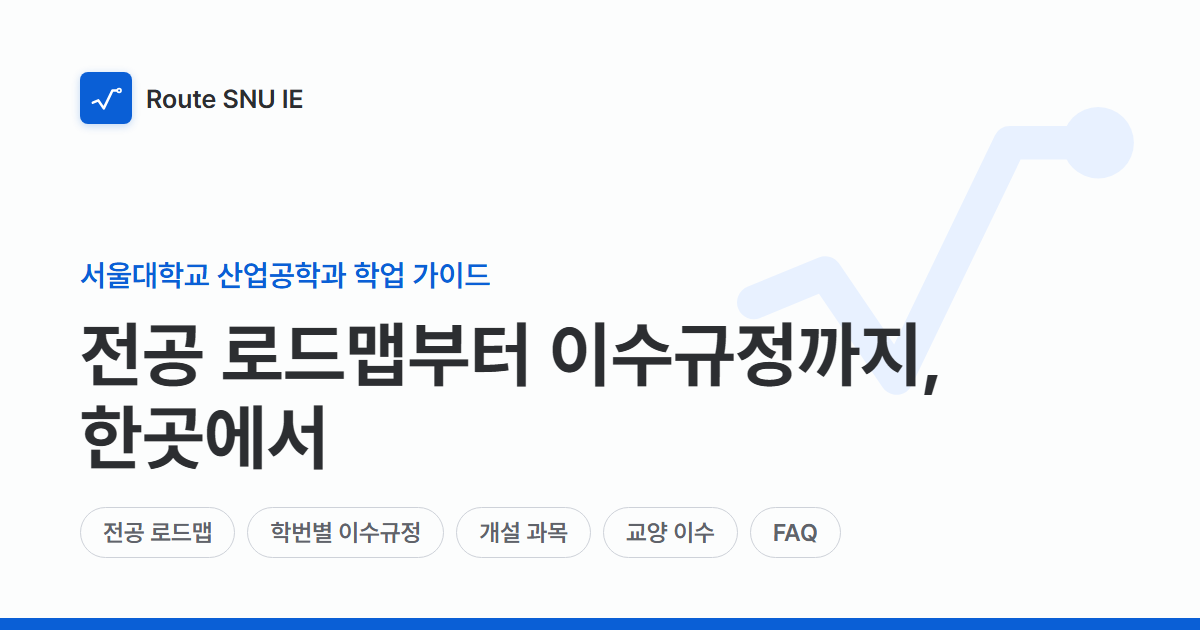
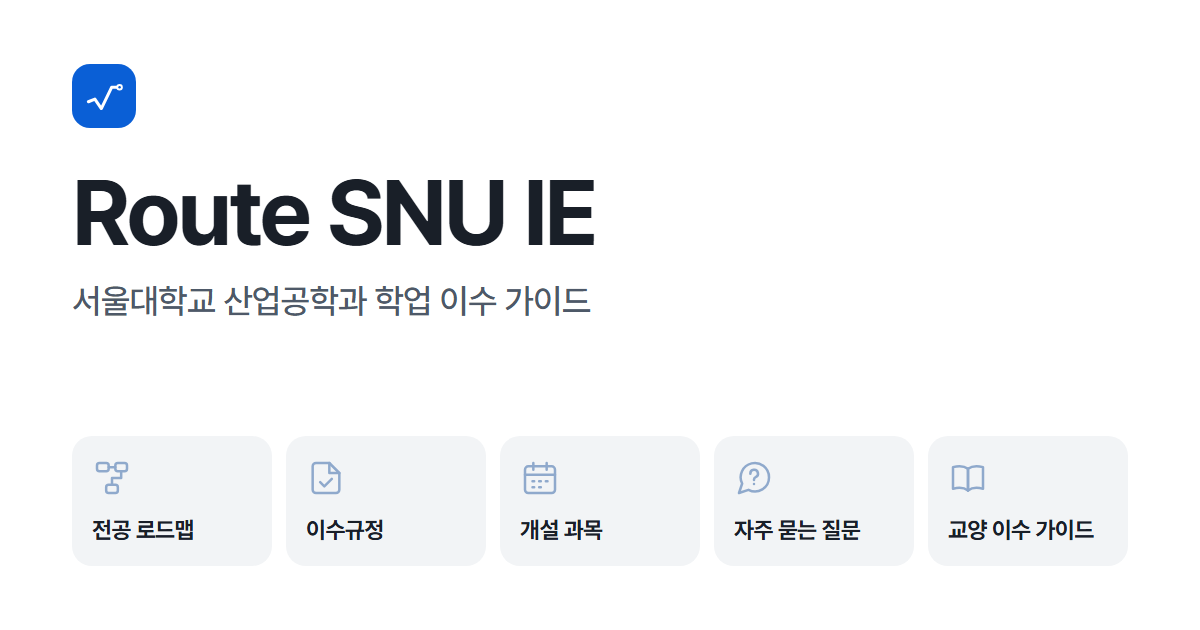
Redraw the share thumbnail to match the v7 home
The old og-image still showed the retired slogan headline. The new one is
rendered from .design-foundations/og-image.html at 1200x630.

diff --git a/.design-foundations/og-image.html b/.design-foundations/og-image.html
@@ -1,0 +1,34 @@
+<!DOCTYPE html>
+<!-- img/og-image.png 원본 (1200×630). 홈 화면을 바꾸면 이 파일도 맞춰 고친 뒤 1200×630으로 캡처합니다. -->
+<html lang="ko">
+<head>
+<meta charset="UTF-8">
+<link rel="stylesheet" href="https://cdn.jsdelivr.net/gh/orioncactus/pretendard@v1.3.9/dist/web/variable/pretendardvariable.min.css">
+<style>
+  * { box-sizing: border-box; margin: 0; }
+  html, body { width: 1200px; height: 630px; overflow: hidden; background: #fff; }
+  body { font-family: "Pretendard Variable", Pretendard, sans-serif; color: #191f28; word-break: keep-all;
+         padding: 64px 72px; display: flex; flex-direction: column; }
+  .brand { display: flex; align-items: center; gap: 12px; font-size: 24px; font-weight: 700; letter-spacing: -.02em; }
+  .mark { width: 64px; height: 64px; border-radius: 18px; background: #0a5fd6; color: #fff; display: grid; place-items: center; }
+  h1 { margin-top: 36px; font-size: 92px; font-weight: 700; letter-spacing: -.035em; line-height: 1.05; }
+  .sub { margin-top: 20px; font-size: 34px; font-weight: 500; color: #4e5968; letter-spacing: -.02em; }
+  .cards { margin-top: auto; display: grid; grid-template-columns: repeat(5, 1fr); gap: 14px; }
+  .card { background: #f2f4f6; border-radius: 20px; padding: 22px 20px; display: flex; flex-direction: column; gap: 18px; }
+  .card svg { width: 40px; height: 40px; fill: none; stroke: #8fa9cc; stroke-width: 1.5; stroke-linecap: round; stroke-linejoin: round; }
+  .card b { font-size: 23px; font-weight: 700; letter-spacing: -.02em; }
+</style>
+</head>
+<body>
+  <div class="brand"><span class="mark"><svg width="38" viewBox="0 0 200 150" fill="none"><path d="M18 104 L52 90 L86 140 L140 28 L182 28" stroke="currentColor" stroke-width="16" stroke-linecap="round" stroke-linejoin="round"/><circle cx="182" cy="28" r="17" fill="currentColor"/><circle cx="182" cy="28" r="6.5" fill="#0a5fd6"/></svg></span></div>
+  <h1>Route SNU IE</h1>
+  <p class="sub">서울대학교 산업공학과 학업 이수 가이드</p>
+  <div class="cards">
+    <div class="card"><svg viewBox="0 0 24 24"><rect x="3" y="3" width="7" height="5" rx="1.5"/><rect x="14" y="3" width="7" height="5" rx="1.5"/><rect x="8.5" y="16" width="7" height="5" rx="1.5"/><path d="M10 5.5h4M17.5 8v4H12v4"/></svg><b>전공 로드맵</b></div>
+    <div class="card"><svg viewBox="0 0 24 24"><path d="M14 3H6a2 2 0 0 0-2 2v14a2 2 0 0 0 2 2h12a2 2 0 0 0 2-2V9z"/><path d="M14 3v6h6"/><path d="m8.5 14.5 2.5 2.5 4.5-4.5"/></svg><b>이수규정</b></div>
+    <div class="card"><svg viewBox="0 0 24 24"><rect x="3" y="5" width="18" height="16" rx="2"/><path d="M3 10h18M8 3v4M16 3v4"/><path d="M7.5 14h1M11.5 14h1M15.5 14h1M7.5 17.5h1M11.5 17.5h1"/></svg><b>개설 과목</b></div>
+    <div class="card"><svg viewBox="0 0 24 24"><path d="M21 11.5a8.4 8.4 0 0 1-12.3 7.6L3 21l1.9-5.7A8.5 8.5 0 1 1 21 11.5Z"/><path d="M9.8 9.4a2.3 2.3 0 1 1 3.2 2.1c-.6.3-1 .8-1 1.4v.3M12 15.6h.01"/></svg><b>자주 묻는 질문</b></div>
+    <div class="card"><svg viewBox="0 0 24 24"><path d="M12 6.5C10 5 6.5 4.5 3 5.5v13c3.5-1 7-.5 9 1"/><path d="M12 6.5c2-1.5 5.5-2 9-1v13c-3.5-1-7-.5-9 1z"/><path d="M12 6.5v13"/></svg><b>교양 이수 가이드</b></div>
+  </div>
+</body>
+</html>
